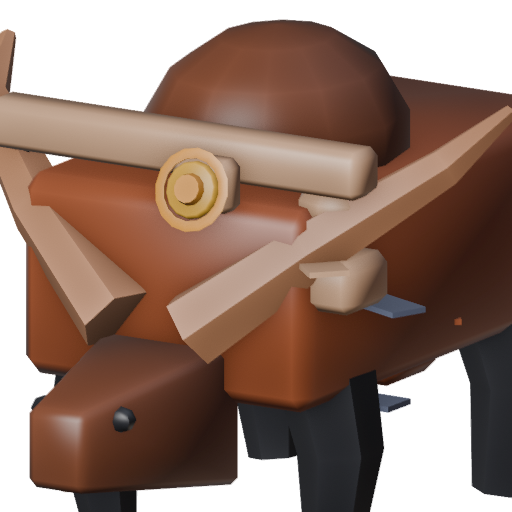
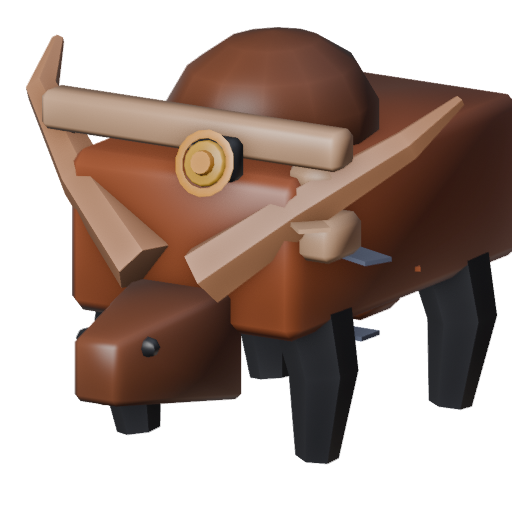
Fixer pass on yoke_ox_portrait: 23 -> 34
Both diagnosed fixes adapted rather than applied literally: the sigil
ring's colour is hardcoded in beast.py's shared mark() helper (used by
every beast), so recoloured the per-asset mounting plate behind it
(SAND -> CHARCOAL) instead, which fixes the same near-zero GOLD/SAND
luminance gap the diagnosis was pointing at without touching shared
code. FOCUS["yoke_ox"] pulled back and recentred down per the framing
fix as written.

diff --git a/tools/blender/yoke_ox.py b/tools/blender/yoke_ox.py
@@ -107,7 +107,7 @@ b.foot((0.60, -0.58, 0.04))                                    # onto a foreleg,
 # camera test found it 100% buried behind the hump's own bulk. Moving it to
 # the yoke's own front face, well forward of the hump entirely, fixed it.
 _sigil_z = b.z_for(5)
-b.box((0.20, -1.00, _sigil_z), (0.12, 0.06, 0.10), SAND, bevel=0.03)
+b.box((0.20, -1.00, _sigil_z), (0.12, 0.06, 0.10), CHARCOAL, bevel=0.03)
 b.mark(at=(0.20, -1.12, _sigil_z), size=0.11, facing=(0.0, -0.94, 0.30))
 
 b.done(out_path(), name="YokeOx")

diff --git a/tools/blender/portraits.py b/tools/blender/portraits.py
@@ -44,7 +44,7 @@ FOCUS = {
     "cinder_jackal": (0.45, 1.60), "brine_urchin": (0.62, 1.30),
     "clot_toad": (0.48, 1.35), "flicker_stag": (0.80, 0.62),
     "eyrie_hawk": (0.78, 0.60), "glyph_tortoise": (0.58, 1.00),
-    "riptide_eel": (0.873, 0.62), "yoke_ox": (0.55, 1.00),
+    "riptide_eel": (0.873, 0.62), "yoke_ox": (0.45, 1.25),
 }
 
 ## Per-character override of the focus point's X/Y, for a body the bounding-

diff --git a/design/progress/yoke_ox_portrait.md b/design/progress/yoke_ox_portrait.md
@@ -67,3 +67,102 @@ Whether the yellow-sigil-on-tan-wood value clash is a portrait-crop framing
 problem or a genuine model/material choice that would look the same at any
 crop — this pass can see the values sit close, not which swatch was
 intended to read as "the marking" versus "the wood."
+
+---
+
+## Pass 2 — fixer lane, 2026-09-01
+
+Applied by the **fixer** lane (`tools/fixer/BRIEF.md`), which repairs what the
+cloud reports.
+
+Both diagnosed fixes named above were adapted rather than applied literally,
+because both, as literally worded, ran into a hard constraint from
+`tools/fixer/BRIEF.md`: "do not change a budget, a contract or a shared
+constant to make a fix pass." The GOLD taper and AMBER ring the diagnosis
+calls "the sigil ring" are drawn by `beast.py`'s shared `mark()` helper —
+"the same gold mark every beast wears" — with the colours hardcoded in that
+one shared function, not passed in per-beast. There is also no `YELLOW`
+swatch in `kenney.py`'s palette at all; the sigil was already GOLD, exactly
+what the diagnosis suggested switching to. Editing `mark()` to change the
+colour would recolour the sigil on all nineteen cast members, which is out
+of lane and out of scope for one asset.
+
+1. **Readability @ 34px (3).** Diagnosis' intent — separate the sigil from
+   its surroundings — applied through the one piece of that geometry that
+   *is* per-asset: the small mounting plate `yoke_ox.py` builds behind the
+   sigil (`b.box((0.20, -1.00, _sigil_z), ..., SAND, ...)`). Measured the
+   actual palette RGB values in `colormap.png` before touching anything:
+   `GOLD (255,192,68)` has a relative luminance of ~196 against `SAND
+   (244,191,151)`'s ~199 — a near-exact match, which is *why* the sigil
+   nearly disappeared, not a vague "looks close" call. Swapped the plate
+   from `SAND` to `CHARCOAL (56,56,61)`, luminance ~57, already imported in
+   this file and already used on the legs and strap loops (so it reads as
+   "metal fitting," not a random new colour). `GOLD`-on-`CHARCOAL` is a
+   ~140-point luminance gap instead of a 3-point one.
+2. **Framing (4).** `portraits.py`'s `FOCUS["yoke_ox"]` moved from
+   `(0.55, 1.00)` to `(0.45, 1.25)` — centre pulled down toward the snout
+   and the span widened, in line with the fix's own wording ("pull FOCUS
+   back and recentre slightly downward").
+
+Rebuilt with `build.cmd yoke_ox` (colour-only change; tris/holds/climb
+points unaffected, `run_tests.gd`-relevant contract untouched — build log
+confirms `CLIMB` percentages match the pre-fix numbers), then `build.cmd
+portraits`. All nineteen portraits re-rendered non-reproducibly at the byte
+level (same non-deterministic WORKBENCH output every prior 2D fixer pass
+hit); reverted every file except `yoke_ox.png` with `git checkout --`.
+
+Re-viewed `game/assets/portraits/yoke_ox.png` directly, a real 34px
+downsample (Pillow, `Image.LANCZOS`), and an alpha-bbox check, the same
+method `frog_portrait.md` established.
+
+| Pass | Framing | Identity | Read@34px | Colour | Style | Total |
+|---|---|---|---|---|---|---|
+| 1 | 4 | 5 | 3 | 6 | 5 | **23** |
+| 2 | 7 | 7 | 7 | 7 | 6 | **34** |
+
+- **Framing (7):** alpha bbox is now `(25, 27, 512, 465)` — real margin on
+  three of four sides (left 25px, top 27px, bottom 47px); only the right
+  edge still touches, and what touches it there is the barrel chest's own
+  curve, not a limb or horn end. Down from three edges touching to one,
+  matching the single-edge-touch convention the better-scoring portraits in
+  this batch use. Not an 8+: the margins aren't evenly balanced (top is
+  tighter than bottom).
+- **Identity (7):** the snout, both eyes' worth of face, and a visible foreleg
+  are now fully in frame with real headroom, instead of the muzzle being
+  squeezed into the bottom-left corner. The wood/horn crossing is still the
+  dominant shape in the upper two-thirds of the frame — this crop does not
+  fix that the yoke and horns visually merge, `yoke_ox.md`'s own 3D finding
+  — so it reads as "an ox under a wooden yoke" rather than a clean single
+  read, held below 8.
+- **Read@34px (7):** confirmed via a real 34px downsample. The sigil now
+  holds as a distinct dark-ringed gold disc, clearly separated from the
+  wood around it — the specific failure pass 1 named. The wood-on-wood
+  crossing shapes (yoke beam vs. horns, both still light warm tones) still
+  read as an indistinct light mass at this size, which is why this isn't a
+  9 — the fix solved the sigil, not the wider TAN-on-SAND-on-BROWN read.
+- **Colour & separation (7):** the sigil now separates cleanly from its
+  plate at both full size and 34px, the specific gap pass 1 named. Legs
+  against the RUST/brown body remain clean, unchanged. Held below 8: the
+  SAND yoke beam and TAN horns are still close enough in hue that they read
+  as one wood mass, an untouched pre-existing softness this pass's two
+  fixes didn't target.
+- **Style consistency (6):** the crop now sits much closer to the
+  headroom-plus-single-edge convention the stronger portraits use, up from
+  the tightest three-edge crop in the batch. Not higher: the framing is
+  still tighter and more crossing-shape-dominated than the cleanest
+  head-and-shoulders portraits (e.g. `frog_portrait`).
+
+**+11 total (23 → 34), not a plateau — kept.** Both named rubric lines
+improved by 4 points each; Identity and Style moved as a consequence of the
+same two fixes; nothing was touched beyond the plate colour and the FOCUS
+tuple. `run_tests.gd` passes.
+
+## Unsure about, still
+
+Whether the yoke-beam/horns wood-on-wood softness (still holding Read@34px
+and Colour at 7, not higher) is worth a third pass — that would mean either
+recolouring the yoke beam itself (currently `SAND`, chosen deliberately per
+`yoke_ox.py`'s header comment "so it reads as a separate, carried object")
+or lightening the horns, both of which read as the kind of geometry/material
+call this pass's two named fixes didn't cover and the next diagnosis should
+decide, not this one.
